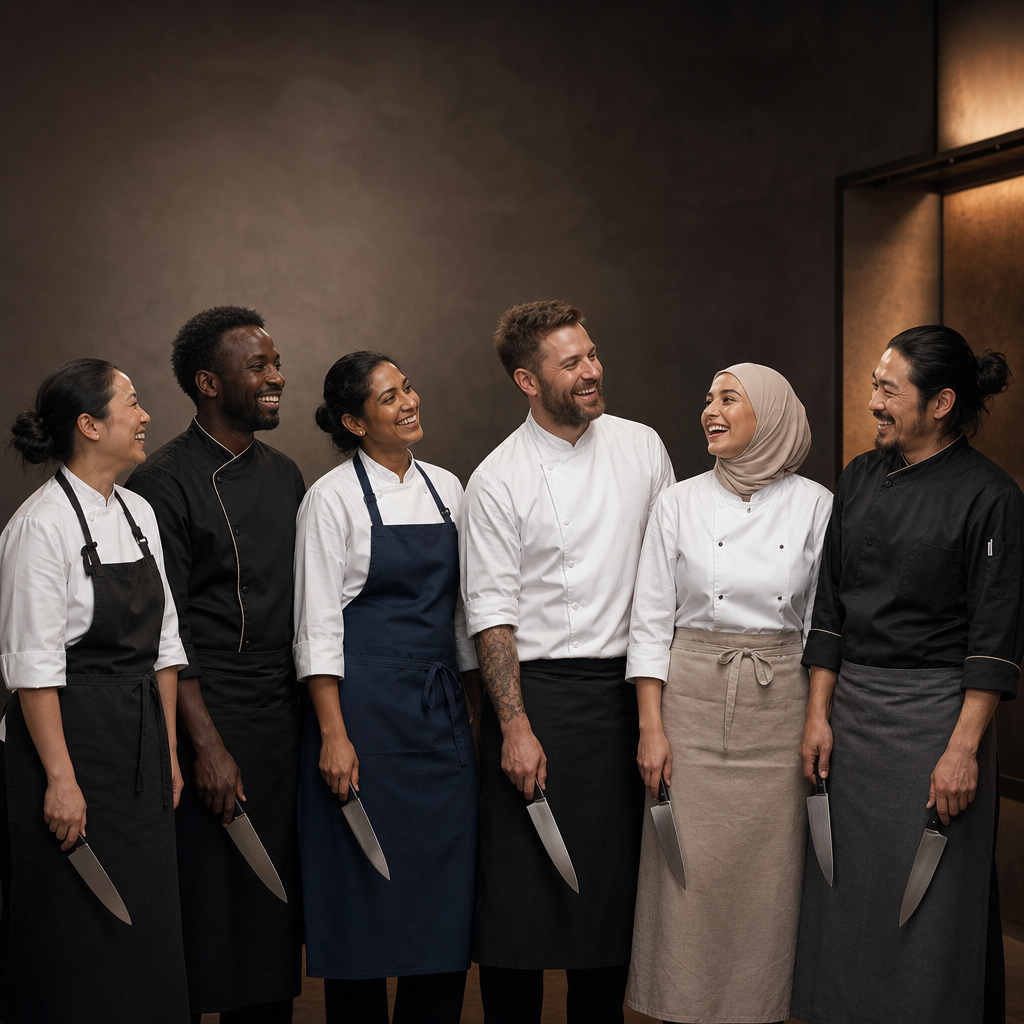
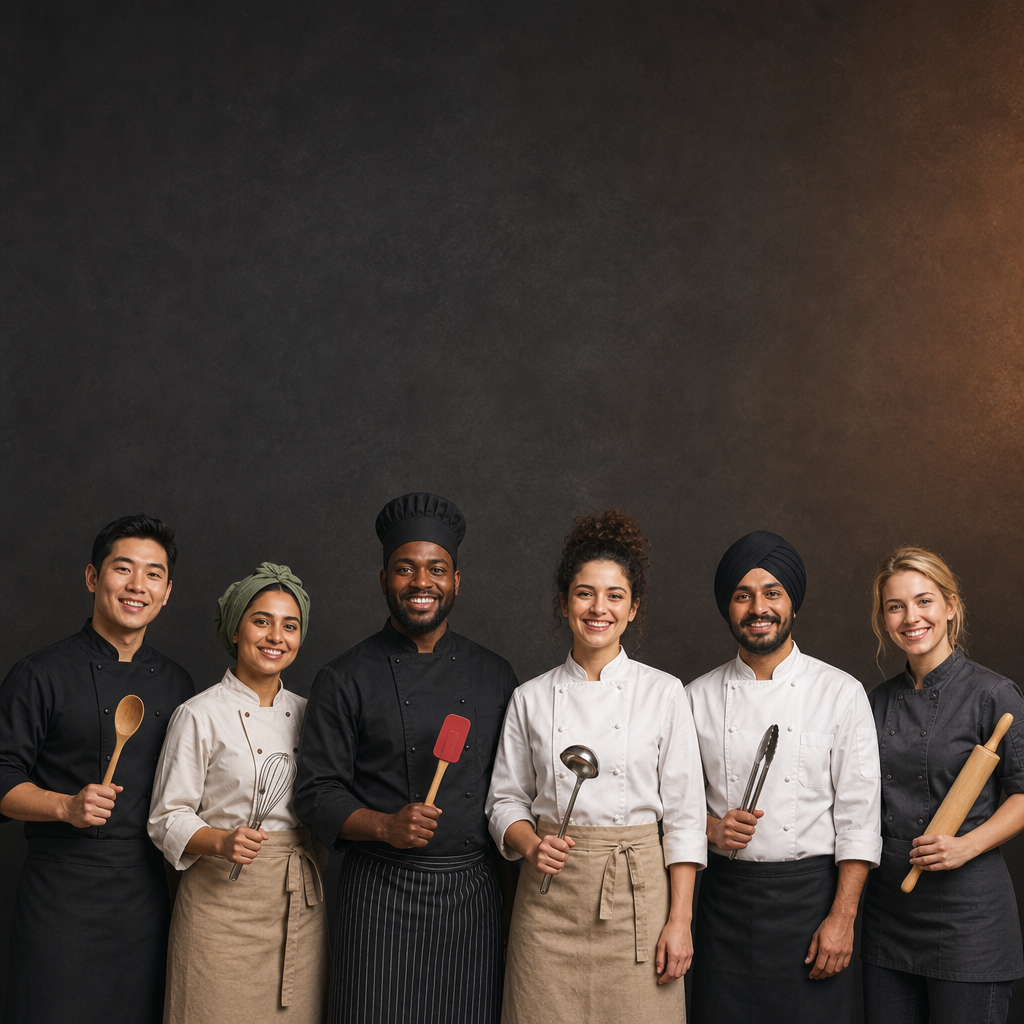
Update dashboard community hero image and page layout
Replit-Commit-Author: Agent

diff --git a/client/src/pages/DashboardNew.tsx b/client/src/pages/DashboardNew.tsx
@@ -974,11 +974,12 @@ export default function DashboardNew() {
           transition={{ delay: 0.1, duration: 0.5 }}
           className="mb-4"
         >
-          <div className="relative h-48 rounded-xl overflow-hidden">
+          <div className="relative h-64 rounded-xl overflow-hidden">
             <img
               src="/images/dashboard-chef-community-hero.png"
               alt={t("heroAlt")}
               className="w-full h-full object-cover"
+              style={{ objectPosition: "center 63%" }}
             />
             <div className="absolute inset-0 bg-gradient-to-t from-black/60 to-transparent" />
             <div className="absolute bottom-4 left-4 right-4">
